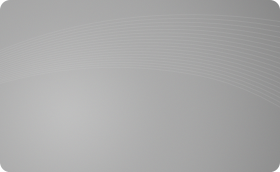
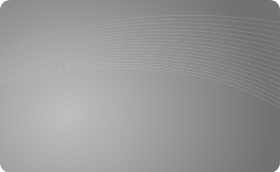
Cartão sombra e imagem melhorada

diff --git a/css/cartao.css b/css/cartao.css
@@ -1,6 +1,8 @@
 /* ----- cartao ----- */
 .cartao {
   background: url(../img/cartao-celular.png);
+  border-radius: 10px;
+  box-shadow: 0 15px 10px -10px rgba(0, 0, 0, .4);
   font-family: 'SF Pro Text';
   height: 172px;
   margin-top: 15px;
